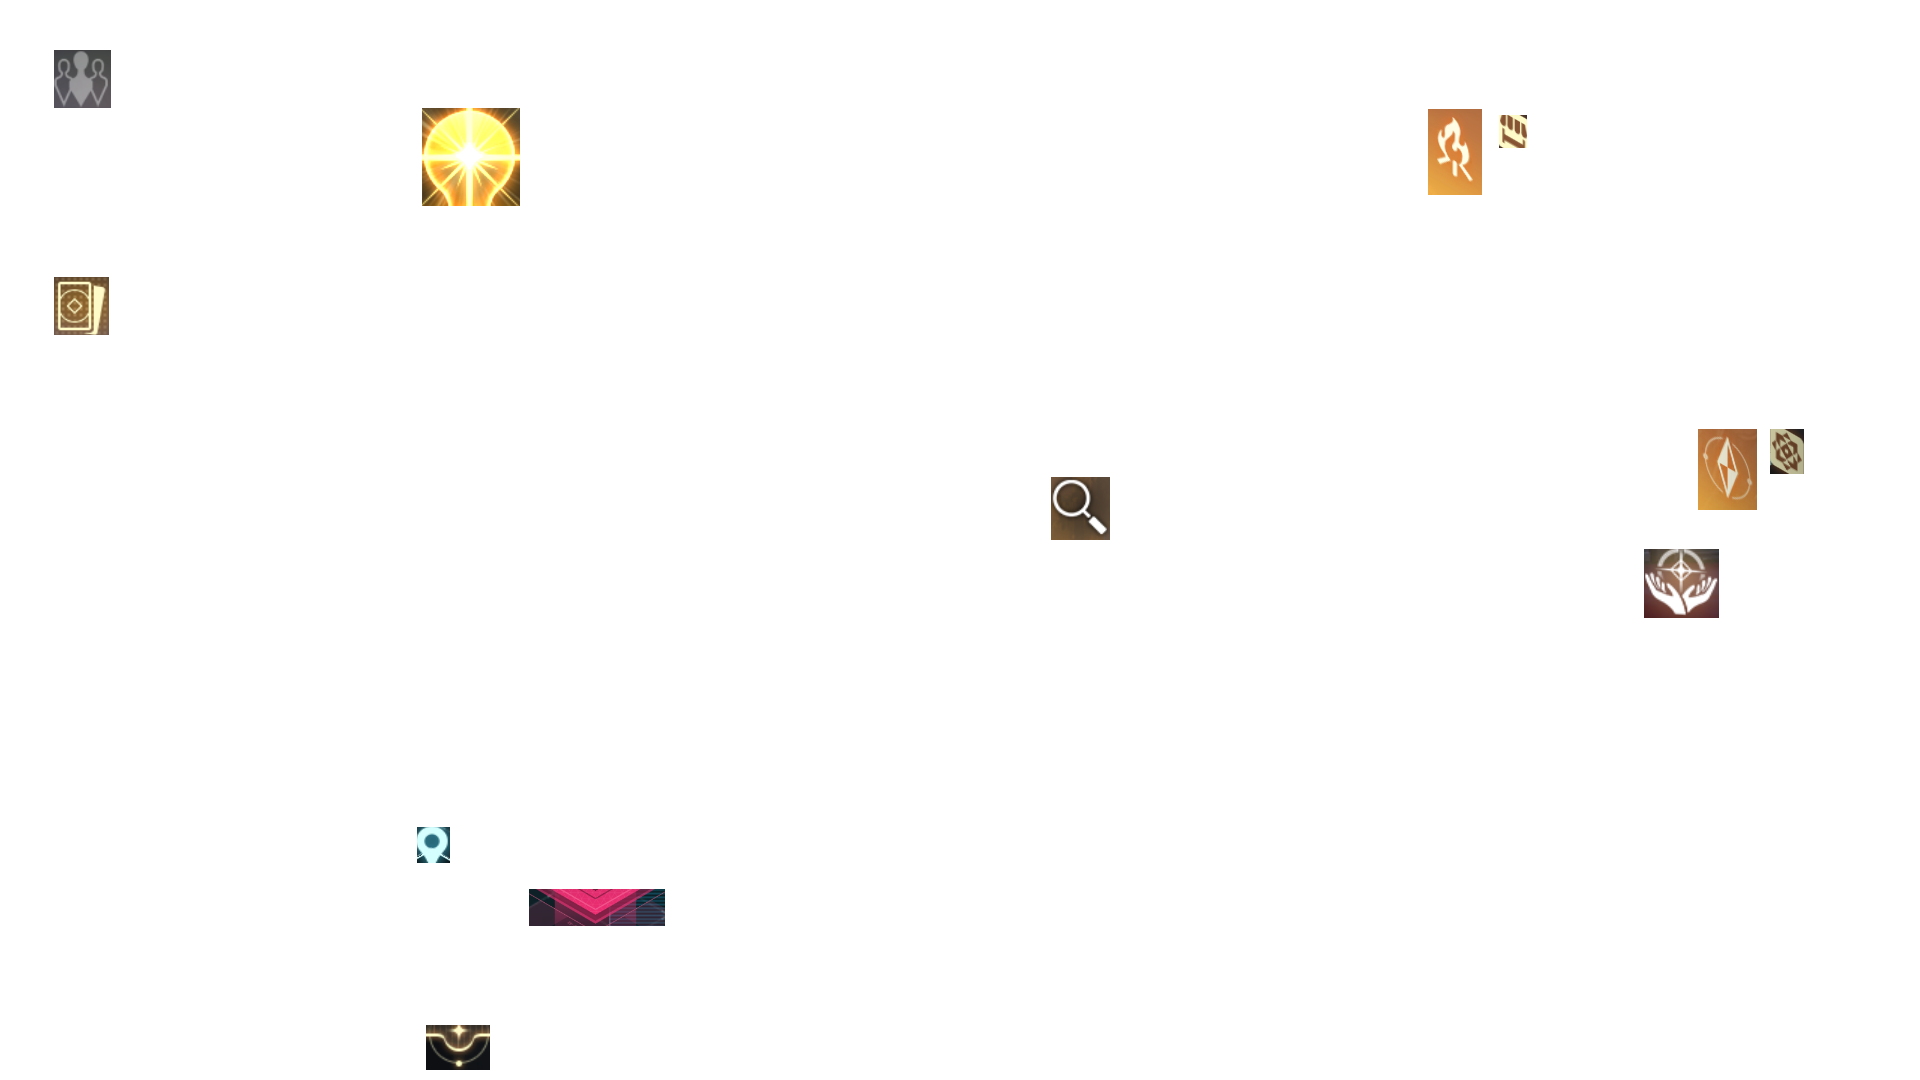
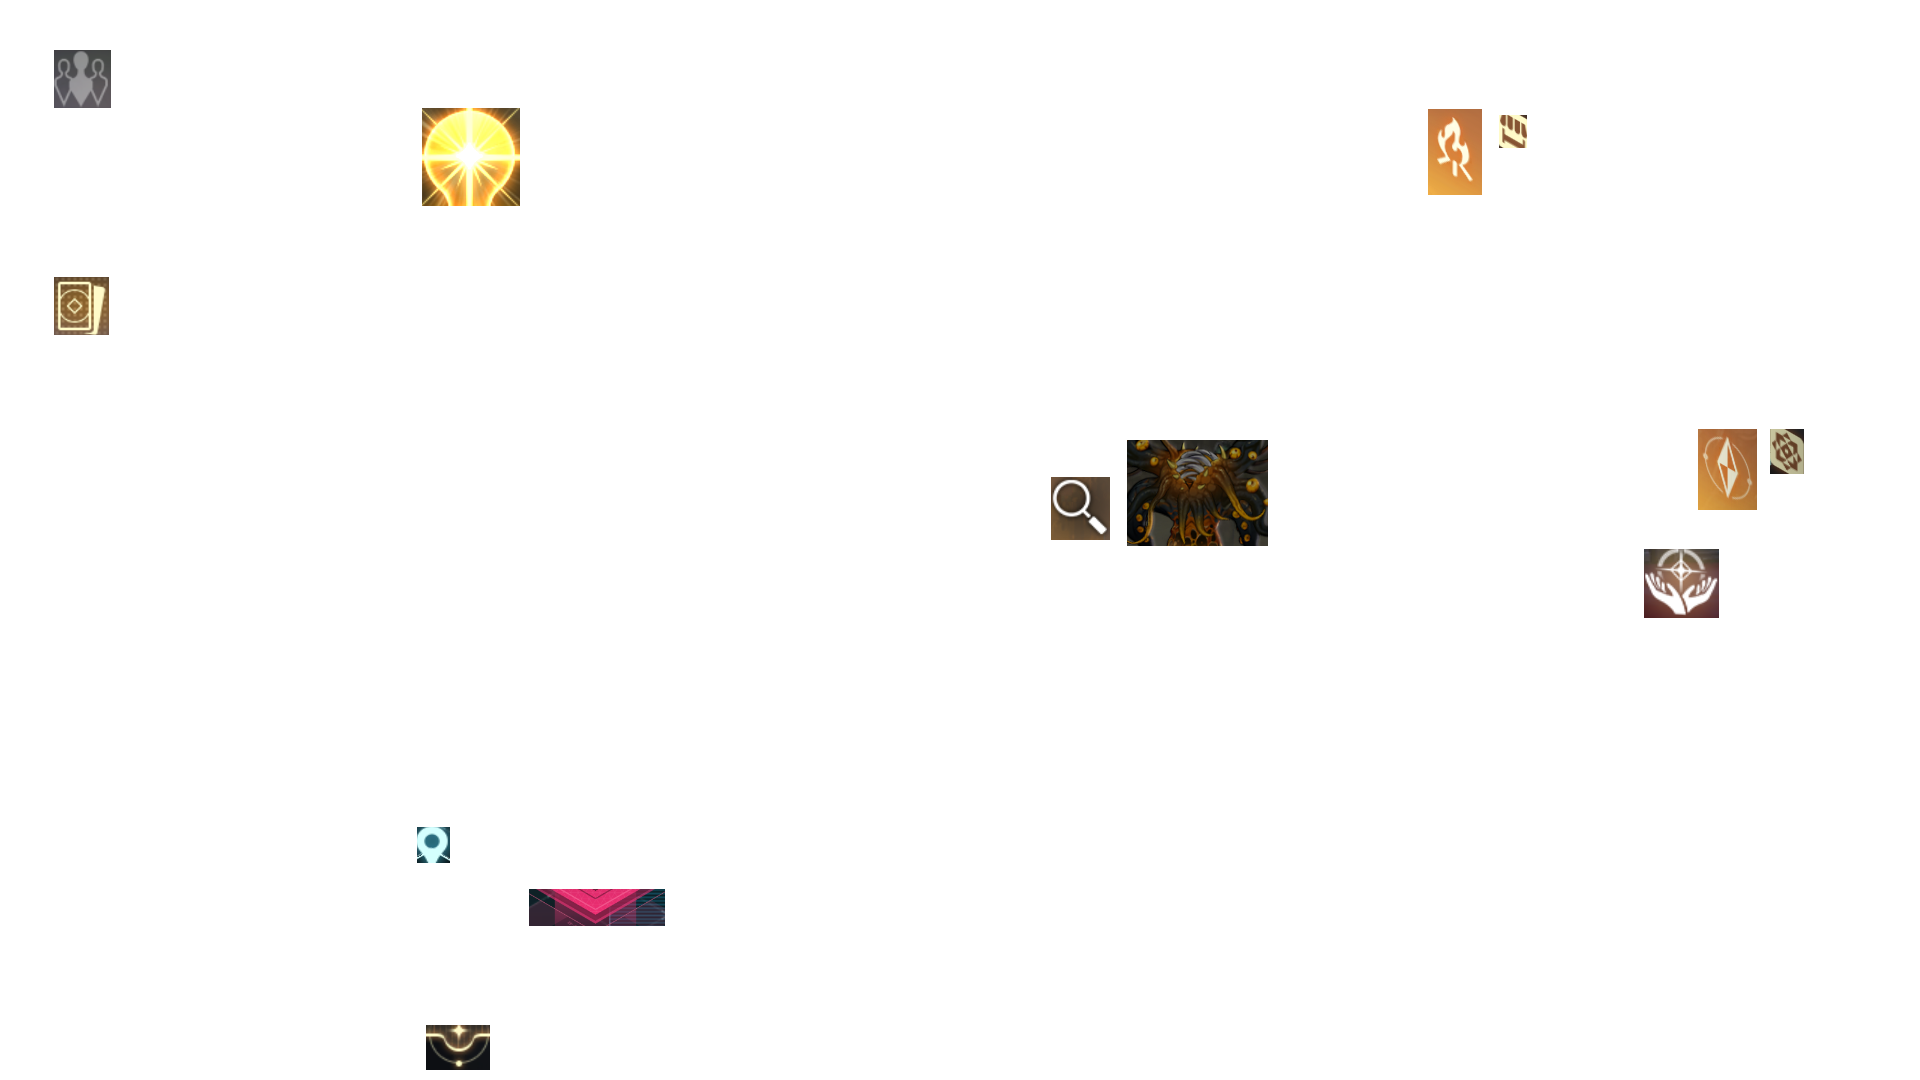
优化特殊怪物与画面卡住处理

Changed region(s): [[0.5625, 0.3972, 0.6875, 0.5194]]

diff --git a/ok_tasks/utils_sortie.py b/ok_tasks/utils_sortie.py
@@ -398,6 +398,35 @@ def handle_boss_selection(task: TriggerTask):
     return True
 
 
+def handle_secret_enemy(task: TriggerTask):
+    """战斗页面：发现特殊怪物时，随机拖动一张手牌到怪物中心。"""
+    hand_count_box = find_box_at_point(task, 0.513, 0.975)
+    if not (hand_count_box and re.search(r"\d+/\d+", hand_count_box.name)):
+        return False
+
+    search_box = task.box_of_screen(0.496, 0.154, 0.967, 0.636)
+    secret_enemy = task.find_one(
+        feature_name="secret_enemy",
+        box=search_box,
+        threshold=0.7,
+    )
+    if not secret_enemy:
+        return False
+
+    enemy_x = (secret_enemy.x + secret_enemy.width / 2) / task.width
+    enemy_y = (secret_enemy.y + secret_enemy.height / 2) / task.height
+    card_x = random.uniform(0.202, 0.795)
+    card_y = random.uniform(0.726, 0.911)
+    task.log_info(
+        f"发现特殊怪物，从({card_x:.3f}, {card_y:.3f})拖动手牌到"
+        f"怪物中心({enemy_x:.3f}, {enemy_y:.3f})，"
+        f"相似度={secret_enemy.confidence:.4f}"
+    )
+    task.move_relative(card_x, card_y)
+    task.swipe_relative(card_x, card_y, enemy_x, enemy_y, duration=0.5)
+    return False
+
+
 def handle_battle_page(task: TriggerTask):
     """战斗页面: 优先按"出牌优先级"配置出牌；找不到优先级中的牌时按当前手牌数从大到小兜底尝试。"""
 

diff --git a/ok_tasks/utils.py b/ok_tasks/utils.py
@@ -954,13 +954,13 @@ def is_button_active(task: TriggerTask, button_box):
 
 # ------------------------- 帧卡住检测 -------------------------
 
-def is_frame_stuck(task: TriggerTask, stuck_threshold_seconds=30, change_threshold=0.005):
+def is_frame_stuck(task: TriggerTask, stuck_threshold_seconds=30, change_threshold=0.08):
     """
     基于像素变化检测画面是否卡住。
     在 task 上缓存 _prev_frame_gray 和 _last_change_time。
     连续 stuck_threshold_seconds 秒变化比例低于 change_threshold 返回 True。
     stuck_threshold_seconds: 判定卡住的连续秒数阈值，默认30秒
-    change_threshold: 两帧之间变化像素比例阈值，默认0.005（0.5%）
+    change_threshold: 两帧之间变化像素比例阈值，默认0.08（8%）
     """
     if not hasattr(task, '_last_change_time'):
         task._last_change_time = time.time()
@@ -995,6 +995,8 @@ def handle_stuck_log(task: TriggerTask):
         now = time.time()
         last_click_time = getattr(task, "_last_stuck_click_time", 0)
         if now - last_click_time >= 10:
+            from utils_sortie import handle_secret_enemy
+            handle_secret_enemy(task)
             click_x = random.random()
             click_y = random.random()
             task.log_info(

diff --git a/ok_tasks/TestTrigger.py b/ok_tasks/TestTrigger.py
@@ -1,6 +1,6 @@
 from ok import TriggerTask
 
-from utils import recognize_cards_in_deck
+from utils_sortie import handle_secret_enemy
 
 
 class TestTrigger(TriggerTask):
@@ -13,10 +13,4 @@ class TestTrigger(TriggerTask):
 
     def run(self):
         self.all_texts = self.ocr()
-        cards = recognize_cards_in_deck(self, page="测试trigger")
-        selected_cards = [card for card in cards if card["selected"]]
-        for card in selected_cards:
-            self.log_info(
-                f"测试trigger: 当前选中卡牌名称=「{card['name']}」，"
-                f"类型=「{card['type']}」，描述=「{card['description']}」"
-            )
+        handle_secret_enemy(self)
